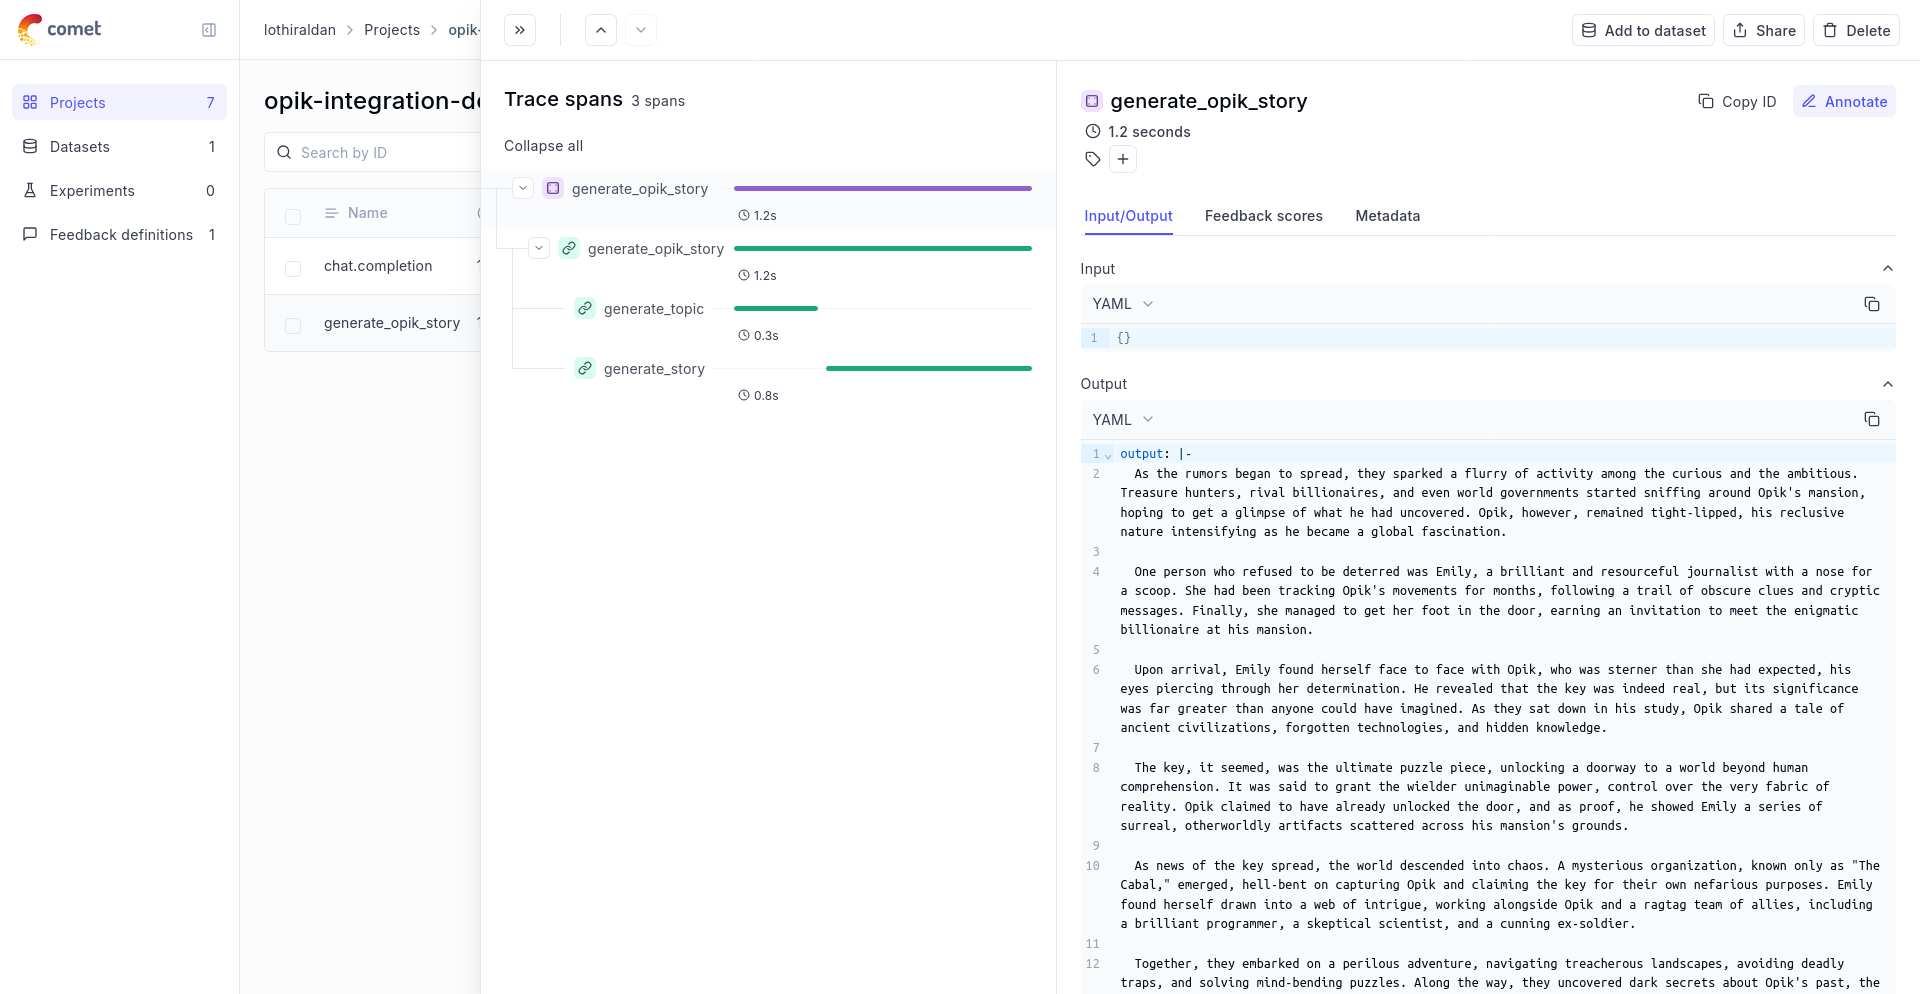
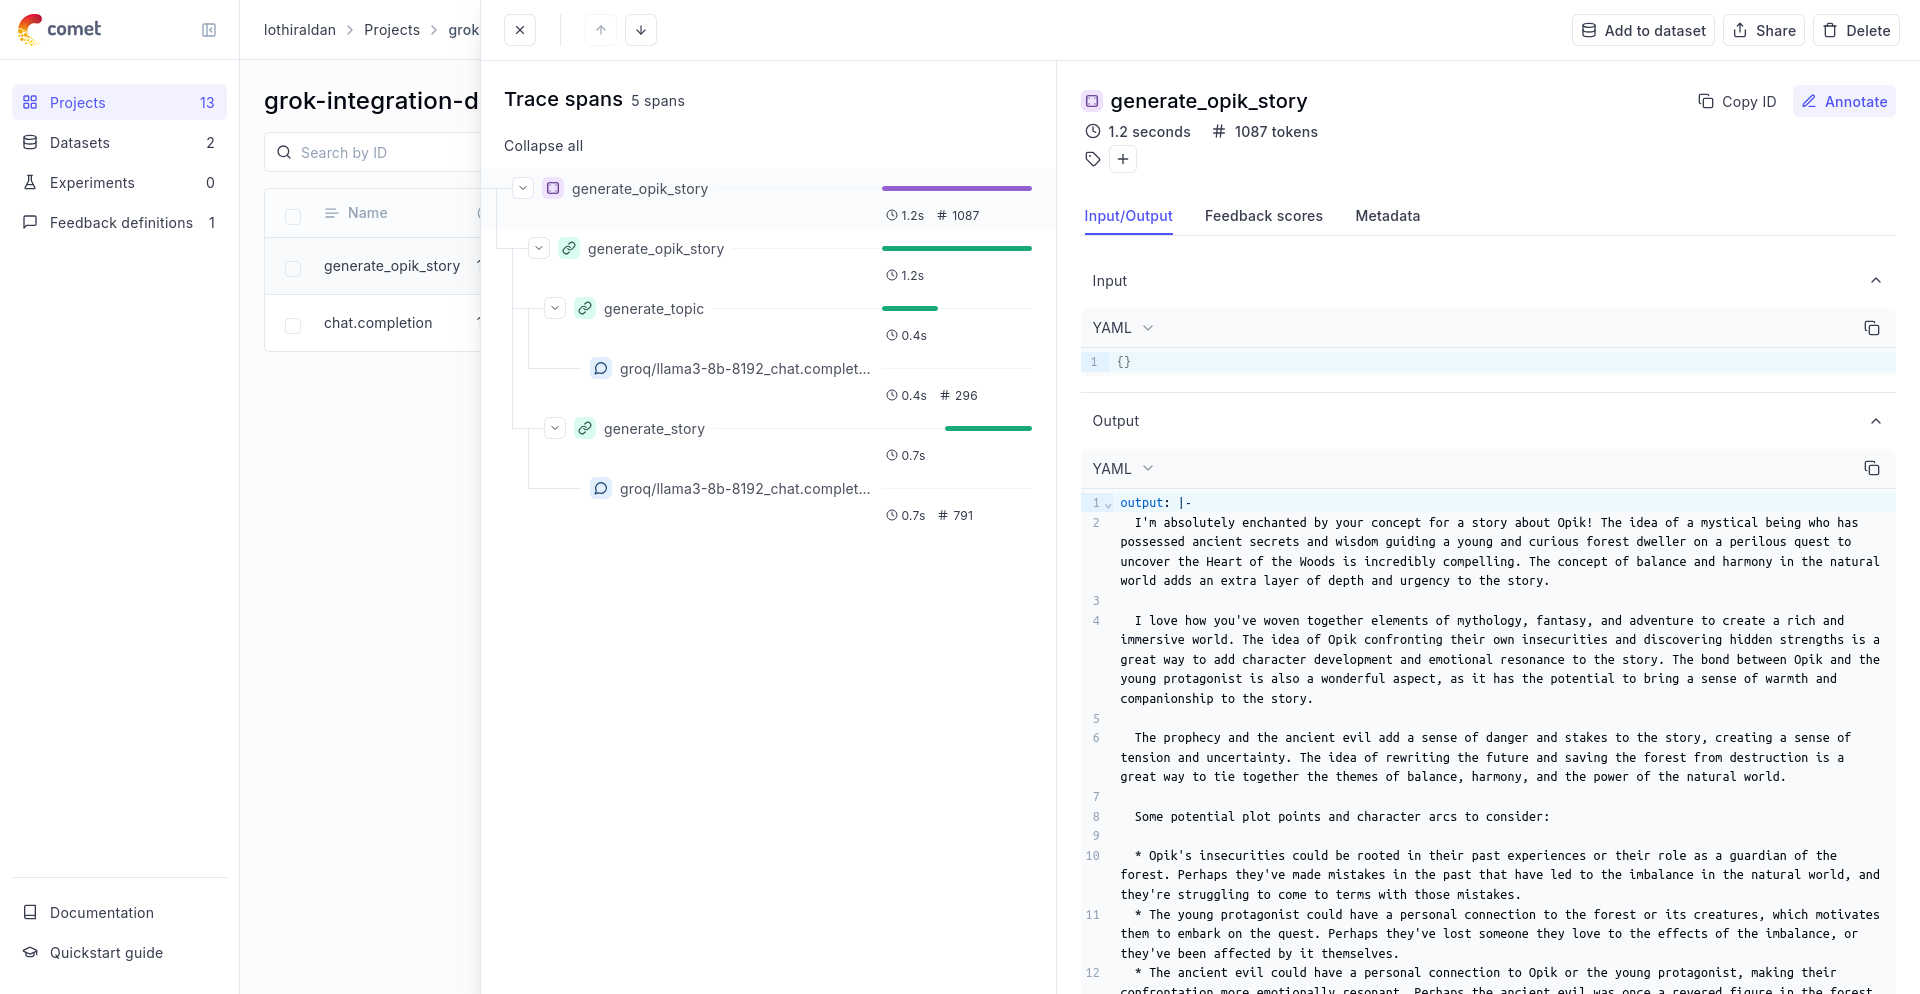
Add Gemini and Groq documentation pages (#466)
* Add Gemini cookbook to the navigation

* Add integration pages for Gemini and Groq

diff --git a/apps/opik-documentation/documentation/sidebars.ts b/apps/opik-documentation/documentation/sidebars.ts
@@ -38,7 +38,9 @@ const sidebars: SidebarsConfig = {
             "tracing/integrations/overview",
             "tracing/integrations/openai",
             "tracing/integrations/litellm",
-            "tracing/integrations/langchain",
+            "tracing/integrations/langchain", // Everything after this one should be ordered by name
+            "tracing/integrations/gemini",
+            "tracing/integrations/groq",
             "tracing/integrations/langgraph",
             "tracing/integrations/llama_index",
             "tracing/integrations/ollama",
@@ -89,11 +91,12 @@ const sidebars: SidebarsConfig = {
         "cookbook/openai",
         "cookbook/litellm",
         "cookbook/langchain",
+        "cookbook/gemini",
+        "cookbook/groq",
         "cookbook/langgraph",
         "cookbook/llama-index",
         "cookbook/ollama",
         "cookbook/predibase",
-        "cookbook/groq",
         "cookbook/ragas",
         "cookbook/watsonx",
         "cookbook/evaluate_hallucination_metric",

diff --git a/apps/opik-documentation/documentation/docs/tracing/integrations/gemini.md b/apps/opik-documentation/documentation/docs/tracing/integrations/gemini.md
@@ -1,0 +1,117 @@
+---
+sidebar_label: Gemini - Google AI Studio
+---
+
+# Gemini - Google AI Studio
+
+[Gemini](https://aistudio.google.com/welcome) is a family of multimodal large language models developed by Google DeepMind.
+
+<div style="display: flex; align-items: center; flex-wrap: wrap; margin: 20px 0;">
+  <span style="margin-right: 10px;">You can check out the Colab Notebook if you'd like to jump straight to the code:</span>
+  <a href="https://colab.research.google.com/github/comet-ml/opik/blob/main/apps/opik-documentation/documentation/docs/cookbook/gemini.ipynb" target="_blank" rel="noopener noreferrer">
+    <img src="https://colab.research.google.com/assets/colab-badge.svg" alt="Open In Colab" style="vertical-align: middle;"/>
+  </a>
+</div>
+
+## Getting Started
+
+### Configuring Opik
+
+To start tracking your Gemini LLM calls, you can use our [LiteLLM integration](/docs/opik/tracing/integrations/litellm). You'll need to have both the `opik`, `litellm` and `google-generativeai` packages installed. You can install them using pip:
+
+```bash
+pip install opik litellm google-generativeai
+```
+
+In addition, you can configure Opik using the `opik configure` command which will prompt you for the correct local server address or if you are using the Cloud platfrom your API key:
+
+```bash
+opik configure
+```
+
+:::info
+
+If you’re unable to use our LiteLLM integration with Gemini, please [open an issue](https://github.com/comet-ml/opik/issues/new/choose)
+
+:::
+
+### Configuring Gemini
+
+In order to configure Gemini, you will need to have:
+
+- Your Gemini API Key: See the [following documentation page](https://ai.google.dev/gemini-api/docs/api-key) how to retrieve it.
+
+Once you have these, you can set them as environment variables:
+
+```python
+import os
+
+os.environ["GEMINI_API_KEY"] = "" # Your Google AI Studio Gemini API Key
+```
+
+## Logging LLM calls
+
+In order to log the LLM calls to Opik, you will need to create the OpikLogger callback. Once the OpikLogger callback is created and added to LiteLLM, you can make calls to LiteLLM as you normally would:
+
+```python
+from litellm.integrations.opik.opik import OpikLogger
+import litellm
+
+opik_logger = OpikLogger()
+litellm.callbacks = [opik_logger]
+
+response = litellm.completion(
+    model="gemini/gemini-pro",
+    messages=[
+        {"role": "user", "content": "Why is tracking and evaluation of LLMs important?"}
+    ]
+)
+```
+
+![Gemini Integration](/img/cookbook/gemini_trace_cookbook.png)
+
+## Logging LLM calls within a tracked function
+
+If you are using LiteLLM within a function tracked with the [`@track`](/tracing/log_traces#using-function-decorators) decorator, you will need to pass the `current_span_data` as metadata to the `litellm.completion` call:
+
+```python
+@track
+def generate_story(prompt):
+    response = litellm.completion(
+        model="gemini/gemini-pro",
+        messages=[{"role": "user", "content": prompt}],
+        metadata={
+            "opik": {
+                "current_span_data": get_current_span_data(),
+            },
+        },
+    )
+    return response.choices[0].message.content
+
+
+@track
+def generate_topic():
+    prompt = "Generate a topic for a story about Opik."
+    response = litellm.completion(
+        model="gemini/gemini-pro",
+        messages=[{"role": "user", "content": prompt}],
+        metadata={
+            "opik": {
+                "current_span_data": get_current_span_data(),
+            },
+        },
+    )
+    return response.choices[0].message.content
+
+
+@track
+def generate_opik_story():
+    topic = generate_topic()
+    story = generate_story(topic)
+    return story
+
+
+generate_opik_story()
+```
+
+![Gemini Integration](/img/cookbook/gemini_trace_decorator_cookbook.png)

diff --git a/apps/opik-documentation/documentation/docs/tracing/integrations/groq.md b/apps/opik-documentation/documentation/docs/tracing/integrations/groq.md
@@ -1,0 +1,117 @@
+---
+sidebar_label: Groq
+---
+
+# Groq
+
+[Groq](https://groq.com/) is Fast AI Inference.
+
+<div style="display: flex; align-items: center; flex-wrap: wrap; margin: 20px 0;">
+  <span style="margin-right: 10px;">You can check out the Colab Notebook if you'd like to jump straight to the code:</span>
+  <a href="https://colab.research.google.com/github/comet-ml/opik/blob/main/apps/opik-documentation/documentation/docs/cookbook/groq.ipynb" target="_blank" rel="noopener noreferrer">
+    <img src="https://colab.research.google.com/assets/colab-badge.svg" alt="Open In Colab" style="vertical-align: middle;"/>
+  </a>
+</div>
+
+## Getting Started
+
+### Configuring Opik
+
+To start tracking your Groq LLM calls, you can use our [LiteLLM integration](/docs/opik/tracing/integrations/litellm). You'll need to have both the `opik` and `litellm` packages installed. You can install them using pip:
+
+```bash
+pip install opik litellm
+```
+
+In addition, you can configure Opik using the `opik configure` command which will prompt you for the correct local server address or if you are using the Cloud platfrom your API key:
+
+```bash
+opik configure
+```
+
+:::info
+
+If you’re unable to use our LiteLLM integration with Groq, please [open an issue](https://github.com/comet-ml/opik/issues/new/choose)
+
+:::
+
+### Configuring Groq
+
+In order to configure Groq, you will need to have:
+
+- Your Groq API Key: You can create and manage your Groq API Keys on [this page](https://console.groq.com/keys).
+
+Once you have these, you can set them as environment variables:
+
+```python
+import os
+
+os.environ["GROQ_API_KEY"] = "" # Your Google AI Studio Groq API Key
+```
+
+## Logging LLM calls
+
+In order to log the LLM calls to Opik, you will need to create the OpikLogger callback. Once the OpikLogger callback is created and added to LiteLLM, you can make calls to LiteLLM as you normally would:
+
+```python
+from litellm.integrations.opik.opik import OpikLogger
+import litellm
+
+opik_logger = OpikLogger()
+litellm.callbacks = [opik_logger]
+
+response = litellm.completion(
+    model="groq/llama3-8b-8192",
+    messages=[
+        {"role": "user", "content": "Why is tracking and evaluation of LLMs important?"}
+    ]
+)
+```
+
+![Groq Integration](/img/cookbook/groq_trace_cookbook.png)
+
+## Logging LLM calls within a tracked function
+
+If you are using LiteLLM within a function tracked with the [`@track`](/tracing/log_traces#using-function-decorators) decorator, you will need to pass the `current_span_data` as metadata to the `litellm.completion` call:
+
+```python
+@track
+def generate_story(prompt):
+    response = litellm.completion(
+        model="groq/llama3-8b-8192",
+        messages=[{"role": "user", "content": prompt}],
+        metadata={
+            "opik": {
+                "current_span_data": get_current_span_data(),
+            },
+        },
+    )
+    return response.choices[0].message.content
+
+
+@track
+def generate_topic():
+    prompt = "Generate a topic for a story about Opik."
+    response = litellm.completion(
+        model="Groq/Groq-pro",
+        messages=[{"role": "user", "content": prompt}],
+        metadata={
+            "opik": {
+                "current_span_data": get_current_span_data(),
+            },
+        },
+    )
+    return response.choices[0].message.content
+
+
+@track
+def generate_opik_story():
+    topic = generate_topic()
+    story = generate_story(topic)
+    return story
+
+
+generate_opik_story()
+```
+
+![Groq Integration](/img/cookbook/groq_trace_decorator_cookbook.png)

diff --git a/README.md b/README.md
@@ -133,6 +133,8 @@ The easiest way to get started is to use one of our integrations. Opik supports:
 | LiteLLM | Call any LLM model using the OpenAI format | [Documentation](/tracing/integrations/litellm.md) | [![Open Quickstart In Colab](https://colab.research.google.com/assets/colab-badge.svg)](https://colab.research.google.com/github/comet-ml/opik/blob/master/apps/opik-documentation/documentation/docs/cookbook/litellm.ipynb) |
 | LangChain | Log traces for all LangChain LLM calls | [Documentation](https://www.comet.com/docs/opik/tracing/integrations/langchain/?utm_source=opik&utm_medium=github&utm_content=langchain_link&utm_campaign=opik) | [![Open Quickstart In Colab](https://colab.research.google.com/assets/colab-badge.svg)](https://colab.research.google.com/github/comet-ml/opik/blob/master/apps/opik-documentation/documentation/docs/cookbook/langchain.ipynb) |
 | LangGraph | Log traces for all LangGraph executions | [Documentation](https://www.comet.com/docs/opik/tracing/integrations/langgraph/?utm_source=opik&utm_medium=github&utm_content=langchain_link&utm_campaign=opik) | [![Open Quickstart In Colab](https://colab.research.google.com/assets/colab-badge.svg)](https://colab.research.google.com/github/comet-ml/opik/blob/master/apps/opik-documentation/documentation/docs/cookbook/langgraph.ipynb) |
+| Gemini | Log traces for all Gemini LLM calls | [Documentation](https://www.comet.com/docs/opik/tracing/integrations/gemini?utm_source=opik&utm_medium=github&utm_content=gemini_link&utm_campaign=opik) | [![Open Quickstart In Colab](https://colab.research.google.com/assets/colab-badge.svg)](https://colab.research.google.com/github/comet-ml/opik/blob/master/apps/opik-documentation/documentation/docs/cookbook/gemini.ipynb) |
+| Groq | Log traces for all Groq LLM calls | [Documentation](https://www.comet.com/docs/opik/tracing/integrations/groq?utm_source=opik&utm_medium=github&utm_content=groq_link&utm_campaign=opik) | [![Open Quickstart In Colab](https://colab.research.google.com/assets/colab-badge.svg)](https://colab.research.google.com/github/comet-ml/opik/blob/master/apps/opik-documentation/documentation/docs/cookbook/groq.ipynb) |
 | LlamaIndex | Log traces for all LlamaIndex LLM calls | [Documentation](https://www.comet.com/docs/opik/tracing/integrations/llama_index?utm_source=opik&utm_medium=github&utm_content=llama_index_link&utm_campaign=opik) | [![Open Quickstart In Colab](https://colab.research.google.com/assets/colab-badge.svg)](https://colab.research.google.com/github/comet-ml/opik/blob/master/apps/opik-documentation/documentation/docs/cookbook/llama-index.ipynb) |
 | Ollama | Log traces for all Ollama LLM calls | [Documentation](https://www.comet.com/docs/opik/tracing/integrations/ollama?utm_source=opik&utm_medium=github&utm_content=ollama_link&utm_campaign=opik) | [![Open Quickstart In Colab](https://colab.research.google.com/assets/colab-badge.svg)](https://colab.research.google.com/github/comet-ml/opik/blob/master/apps/opik-documentation/documentation/docs/cookbook/ollama.ipynb) |
 | Predibase | Fine-tune and serve open-source Large Language Models | [Documentation](https://www.comet.com/docs/opik/tracing/integrations/predibase?utm_source=opik&utm_medium=github&utm_content=predibase_link&utm_campaign=opik) | [![Open Quickstart In Colab](https://colab.research.google.com/assets/colab-badge.svg)](https://colab.research.google.com/github/comet-ml/opik/blob/master/apps/opik-documentation/documentation/docs/cookbook/predibase.ipynb) |